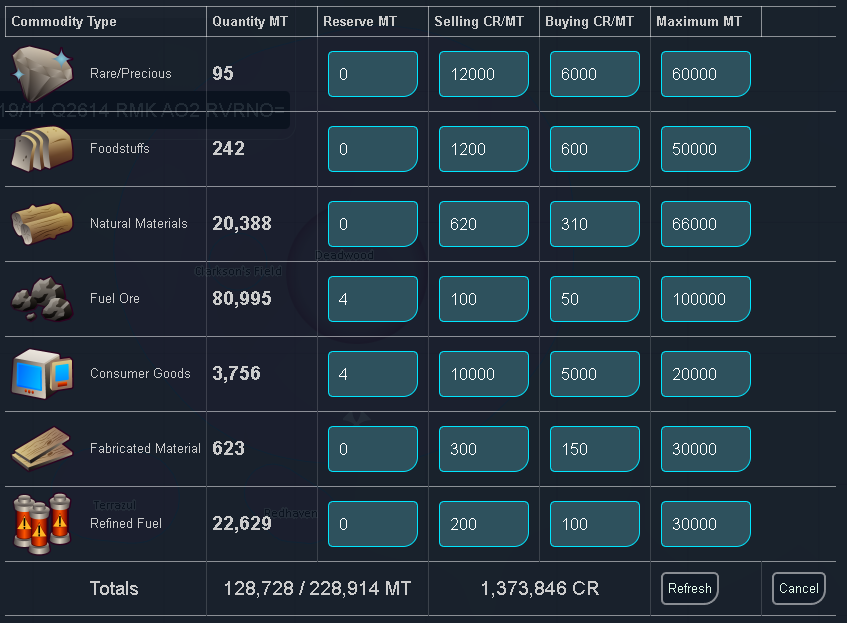
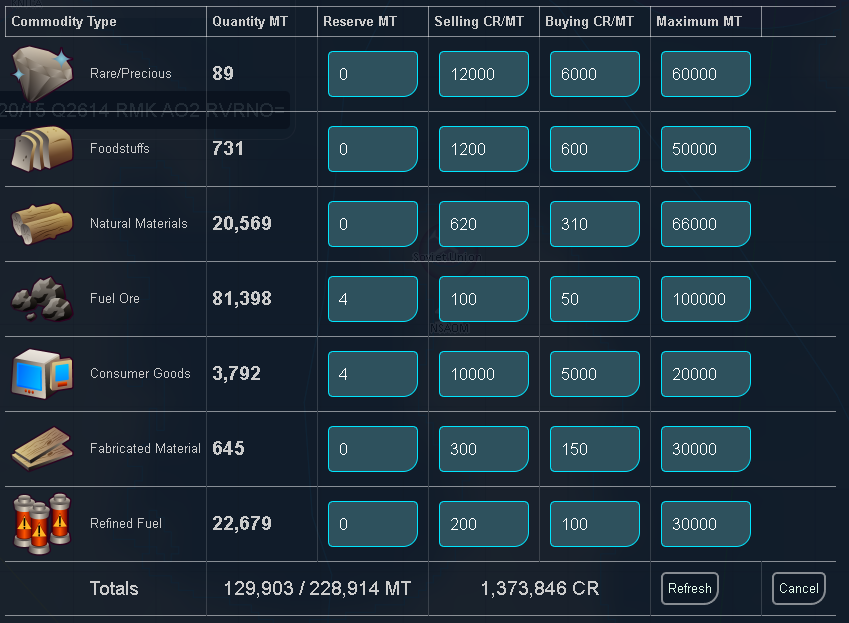
refining update 1

diff --git a/ocr_to_excel.py b/ocr_to_excel.py
@@ -200,7 +200,12 @@ def calculate_ship_capacity(ship_name: str, containers_used: int = None) -> int:
 def extract_text_from_image(image_path: str) -> str:
     try:
         img = Image.open(image_path)
-        text = pytesseract.image_to_string(img)
+        
+        # Esta es la configuración que ayuda a Tesseract a no saltarse dígitos 
+        # y a entender que el texto está organizado en bloques/tablas.
+        custom_config = r'--oem 3 --psm 6' 
+        
+        text = pytesseract.image_to_string(img, config=custom_config)
         return text.strip()
     except Exception as e:
         print(f"Error processing {image_path}: {e}")
@@ -212,17 +217,36 @@ def extract_text_from_image(image_path: str) -> str:
 
 def normalize_number(token):
     if token is None:
-        return None
+        return 0
     if isinstance(token, (int, float)):
         return int(token)
-    text = str(token).replace(',', '').strip()
-    clean = re.sub(r'[^0-9.]', '', text)
-    if clean == '':
-        return None
+    
+    text = str(token).strip()
+    
+    # Paso 1: Si el OCR detectó algo como "8.777,00" o "8,777", 
+    # primero normalizamos eliminando lo que NO sea dígito, punto o coma.
+    text = re.sub(r'[^\d.,]', '', text)
+    
+    # Paso 2: Manejo inteligente de decimales vs miles.
+    # Si hay un punto/coma seguido de solo 1 o 2 dígitos al final, 
+    # probablemente es un decimal (que en este juego parece que no usas para MT).
+    # Si hay 3 dígitos, es un separador de miles.
+    if len(text) > 3:
+        # Si el penúltimo o antepenúltimo carácter es separador, es decimal.
+        if text[-3] in '.,': # Caso .XX
+            text = text [:-3]
+        elif text[-2] in '.,': # Caso .X
+            text = text[:-2]
+
+    # Paso 3: Ahora sí, eliminamos cualquier rastro de puntuación 
+    # para unir los miles (ej: "8.777" -> "8777")
+    clean = re.sub(r'[.,]', '', text)
+    
     try:
-        return int(float(clean))
+        return int(clean) if clean else 0
     except ValueError:
-        return None
+        return 0
+
 
 
 def is_total_line(line: str) -> bool:
@@ -251,26 +275,32 @@ def parse_table_rows(lines, min_numbers=5, layout='city'):
             continue
         if line.lower().startswith(('commodity type', 'name', 'type', 'population', 'fees')):
             continue
-        numbers = re.findall(r'[\d,]+', line)
+            
+        # CAMBIO CLAVE: Buscamos grupos de números más largos o pegados
+        # Esta regex es más permisiva para capturar el número entero aunque tenga ruido
+        numbers = re.findall(r'[\d.,]+', line)
+        
         if len(numbers) < min_numbers:
             continue
-        first_number = re.search(r'[\d,]+', line)
-        if not first_number:
+            
+        first_number_match = re.search(r'[\d.,]+', line)
+        if not first_number_match:
             continue
-        name = line[:first_number.start()].strip()
+            
+        name = line[:first_number_match.start()].strip()
         if not name:
             continue
+            
         parsed_numbers = [normalize_number(n) for n in numbers[:min_numbers]]
         row = [name] + parsed_numbers
+        
+        # Validación de fila real
         if layout == 'city':
-            qty = parsed_numbers[0] if len(parsed_numbers) > 0 else None
             sell = parsed_numbers[2] if len(parsed_numbers) > 2 else None
-            if qty and qty > 0 and sell and sell > 0:
+            if sell and sell > 0:
                 rows.append(row)
         elif layout == 'easydock':
-            sell_cr = parsed_numbers[4] if len(parsed_numbers) > 4 else None
-            if sell_cr and sell_cr > 0:
-                rows.append(row)
+            rows.append(row)
     return rows
 
 